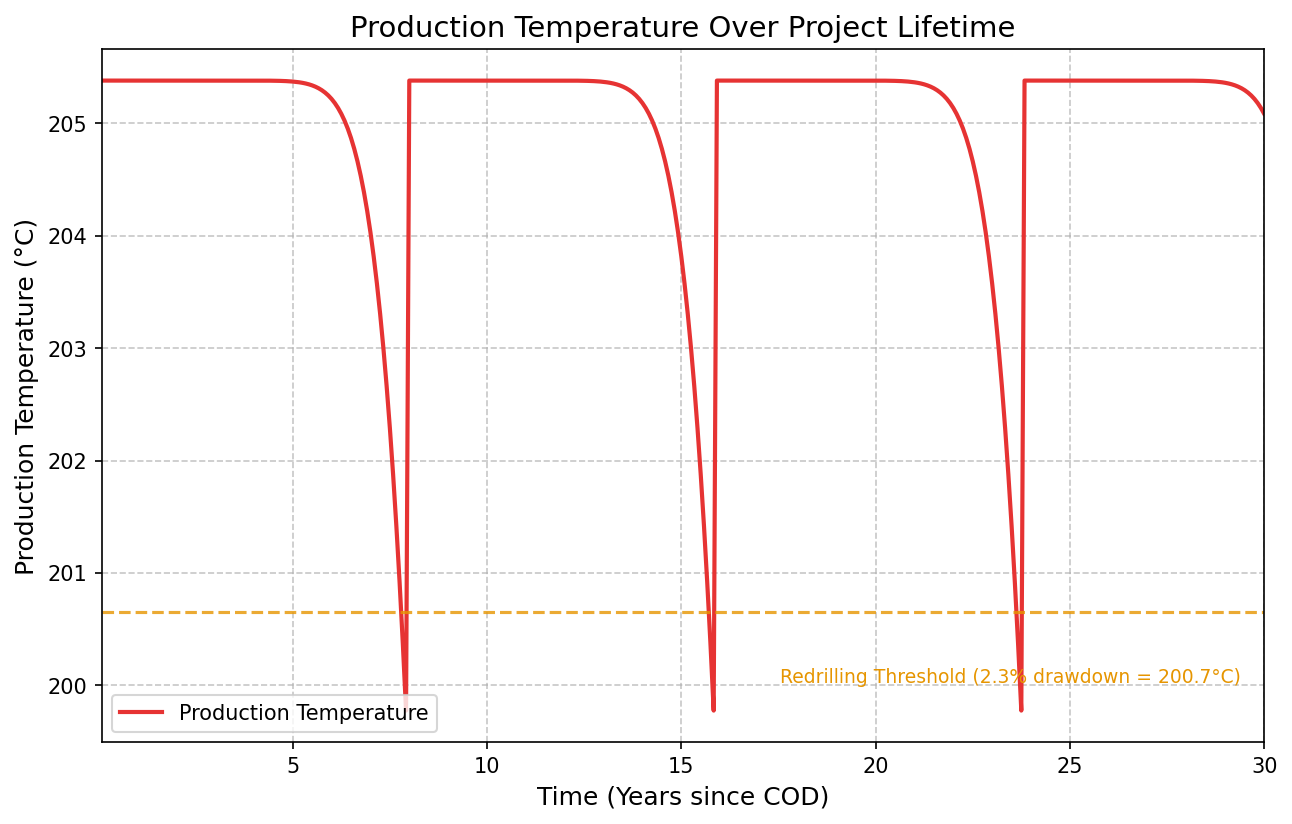
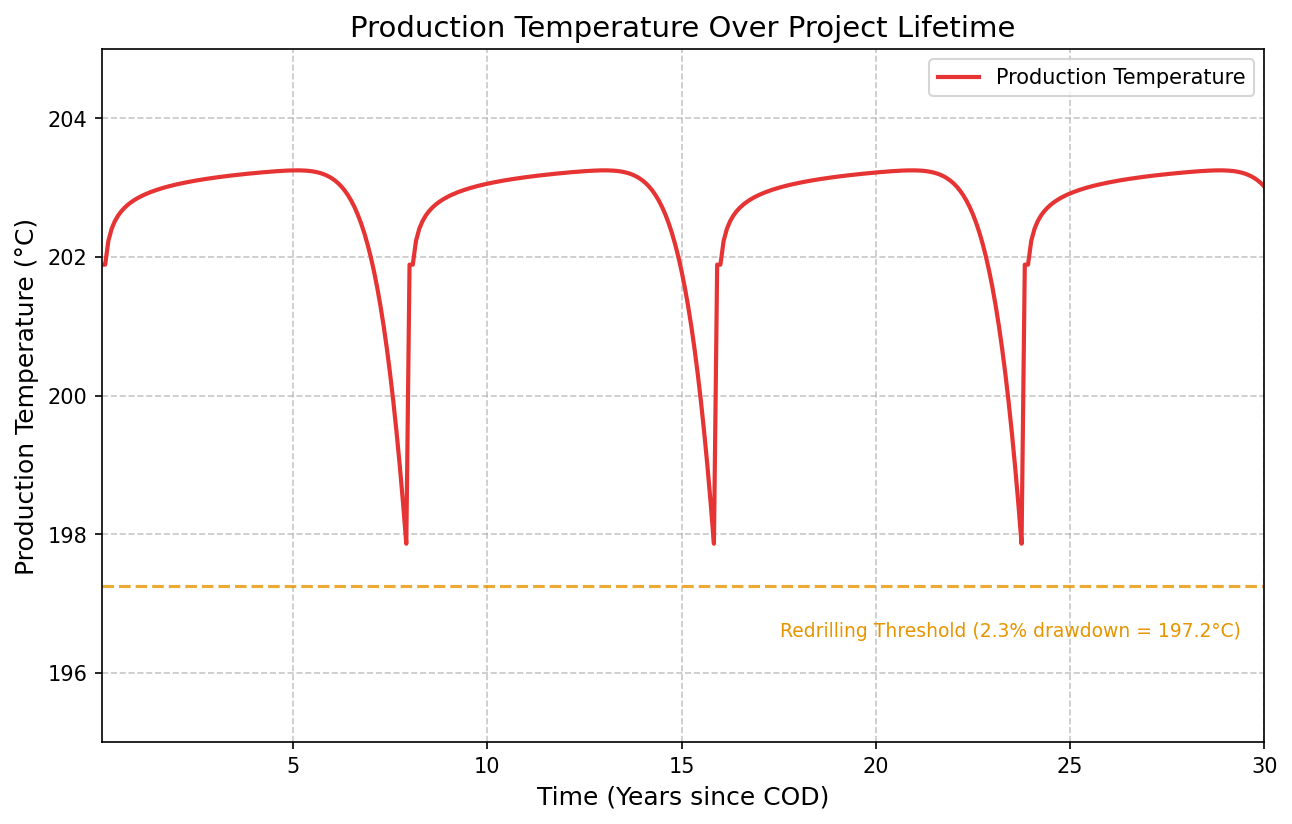
include production temperature graph in results - WIP to add section text

diff --git a/src/geophires_docs/generate_fervo_project_cape_5_graphs.py b/src/geophires_docs/generate_fervo_project_cape_5_graphs.py
@@ -130,9 +130,7 @@ def generate_production_temperature_and_drawdown_graph(
     time_steps_per_year = int(input_params_dict['Time steps per year'])
 
     # Get maximum drawdown from input parameters (as a decimal, e.g., 0.03 for 3%)
-    max_drawdown_str = str(input_params_dict.get('Maximum Drawdown'))
-    # Handle case where value might have a comment after it
-    max_drawdown = float(max_drawdown_str.split(',')[0].strip())
+    max_drawdown = float(input_params_dict.get('Maximum Drawdown'))
 
     # Convert to numpy arrays
     temperatures_celsius = np.array([p.magnitude for p in temp_profile])
@@ -158,6 +156,7 @@ def generate_production_temperature_and_drawdown_graph(
     ax.set_xlabel('Time (Years since COD)', fontsize=12)
     ax.set_ylabel('Production Temperature (°C)', fontsize=12)
     ax.set_xlim(years.min(), years.max())
+    ax.set_ylim(195, 205)
 
     # Add horizontal line for maximum drawdown threshold
     ax.axhline(y=max_drawdown_temp, color=COLOR_THRESHOLD, linestyle='--', linewidth=1.5, alpha=0.8)
